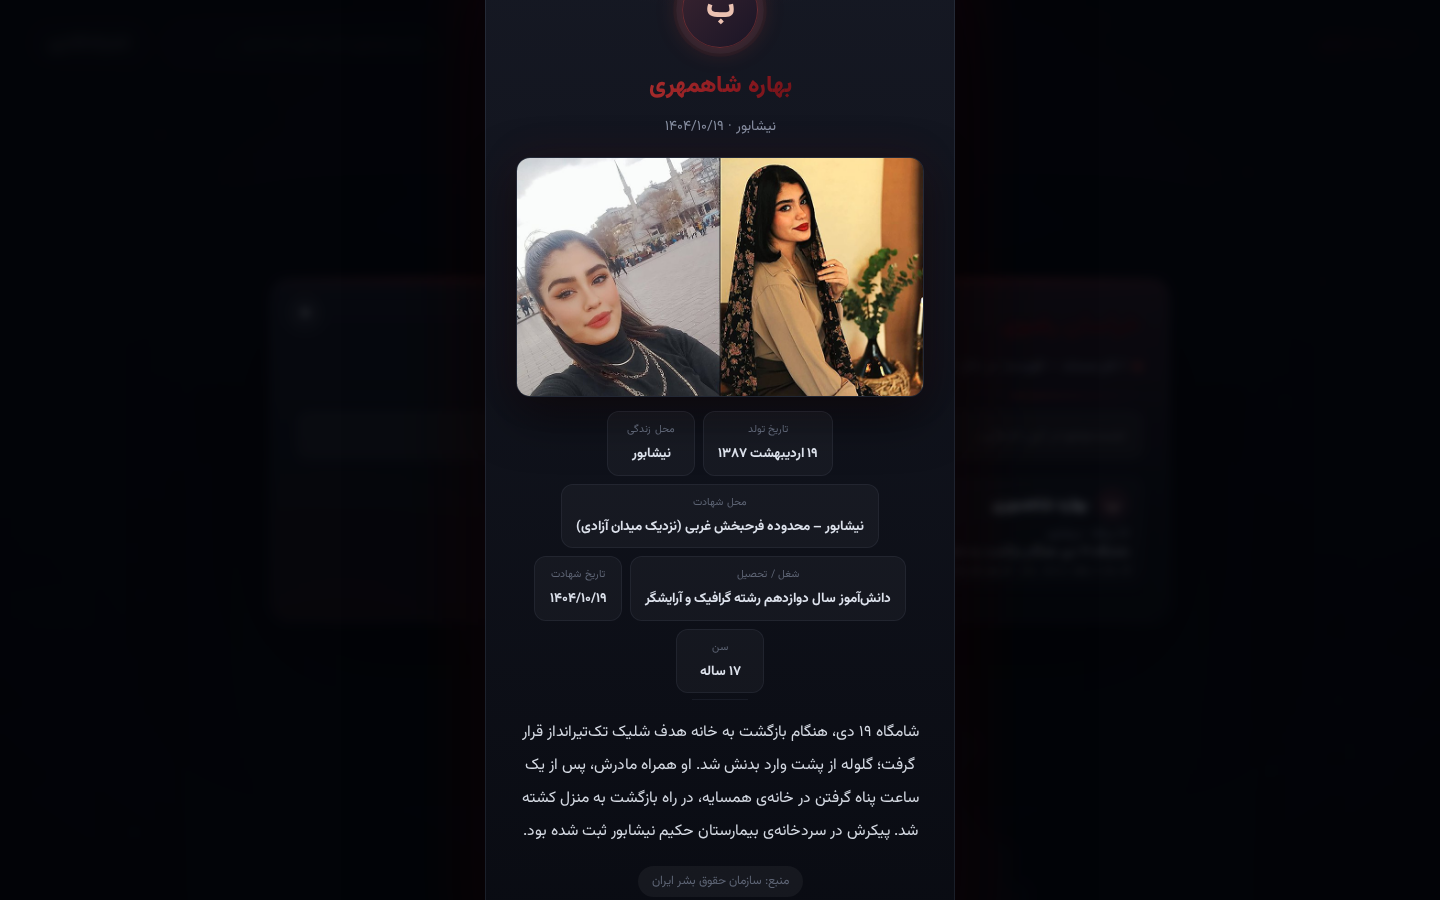
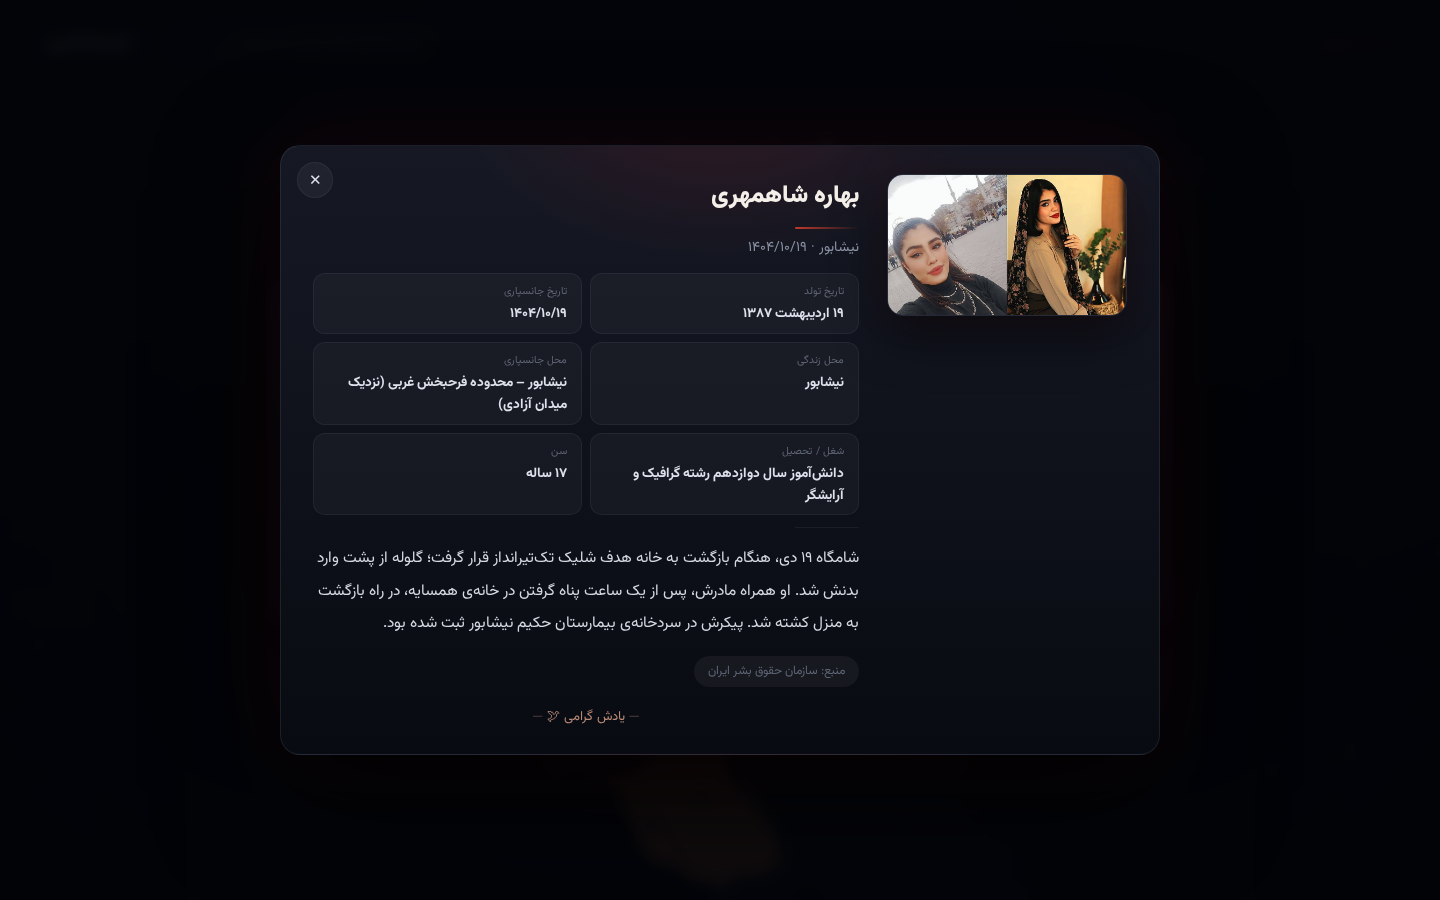
بازطراحی پاپآپ فرد به چیدمان افقی عریض و کوتاه
- اسم استان در پنجره به سفیدِ ملایم تغییر کرد (حفظ بوردر و نوار سرخ)
- آواتار کارتها حالا عکس کوچک فرد است (در نبود عکس، حرف اول)
- پنجرهی فرد: چیدمان افقی — عکس در ستون کناری، اطلاعات در بدنه
  (عرض ~۸۸۰px، ارتفاع کوتاهتر) با جدول دوستونهی اطلاعات
- فیلدها: عکس، تاریخ تولد و جانسپاری، محل زندگی و جانسپاری، شغل، سن،
  توضیحات + ویدیو/صدا
- در موبایل به حالت عمودی برمیگردد

diff --git a/css/style.css b/css/style.css
@@ -248,11 +248,18 @@ body {
 }
 .v-top { display: flex; align-items: center; gap: 9px; width: 100%; min-width: 0; }
 .v-avatar {
-  flex: 0 0 32px; width: 32px; height: 32px; border-radius: 50%;
+  flex: 0 0 36px; width: 36px; height: 36px; border-radius: 50%;
   display: flex; align-items: center; justify-content: center;
-  background: linear-gradient(135deg, #2a3350, #1b2233); color: var(--gold-soft);
-  font-weight: 800; font-size: .95rem; border: 1px solid rgba(180,200,230,.22);
+  background: linear-gradient(135deg, #38202a, #1c1726);
+  color: #e8bfae;
+  font-weight: 800; font-size: .95rem;
+  border: 1px solid rgba(208, 73, 63, .28);
+  overflow: hidden;
 }
+.v-avatar img {
+  width: 100%; height: 100%; object-fit: cover; border-radius: 50%; display: block;
+}
+.v-cell:hover .v-avatar { box-shadow: 0 0 14px rgba(208, 73, 63, .4); }
 .v-name { font-weight: 800; font-size: .98rem; white-space: nowrap; overflow: hidden; text-overflow: ellipsis; }
 .v-meta { color: var(--muted); font-size: .78rem; width: 100%; white-space: nowrap; overflow: hidden; text-overflow: ellipsis; }
 .v-note {
@@ -266,15 +273,28 @@ body {
 #detail { z-index: 60; }
 .detail-dialog {
   position: relative; z-index: 1;
-  width: min(470px, 94vw);
+  width: min(880px, 94vw);
+  max-height: min(86vh, 780px);
+  overflow-y: auto;
   background: linear-gradient(180deg, rgba(19,23,34,.99), rgba(10,12,19,.99));
   border: 1px solid var(--line); border-radius: 20px;
-  padding: 36px 30px 26px; text-align: center;
+  padding: 28px 32px 24px; text-align: right;
   box-shadow: 0 40px 120px rgba(0,0,0,.75);
   transform: translateY(16px) scale(.985);
   transition: transform .32s cubic-bezier(.2,.8,.2,1);
 }
 #detail.open .detail-dialog { transform: none; }
+
+/* چیدمان افقی: عکس در ستون کناری، اطلاعات در بدنه */
+.detail-layout { display: flex; gap: 28px; }
+.detail-side { flex: 0 0 240px; display: flex; flex-direction: column; gap: 12px; align-items: center; }
+.detail-main { flex: 1; min-width: 0; }
+.detail-photo { width: 100%; }
+.detail-photo-img {
+  width: 100%; max-height: 320px; object-fit: cover; border-radius: 16px;
+  border: 1px solid rgba(150,170,205,.14); display: block;
+  box-shadow: 0 18px 50px rgba(0,0,0,.55), 0 0 40px rgba(150, 26, 32, .12);
+}
 .detail-avatar {
   width: 76px; height: 76px; border-radius: 50%; margin: 4px auto 16px;
   display: flex; align-items: center; justify-content: center;
@@ -283,12 +303,12 @@ body {
   border: 1px solid rgba(180,200,230,.25);
   box-shadow: 0 0 0 6px rgba(180,200,230,.05);
 }
-.detail-name { font-size: 1.45rem; font-weight: 900; margin: 0 0 6px; }
-.detail-meta { color: var(--muted); font-size: .88rem; margin-bottom: 16px; }
-.detail-divider { width: 56px; height: 1px; background: var(--line); margin: 0 auto 16px; }
-.detail-note { color: #d3d8e1; line-height: 2.1; font-size: .98rem; margin: 0 0 18px; }
+.detail-name { font-size: 1.5rem; font-weight: 900; margin: 0 0 6px; }
+.detail-meta { color: var(--muted); font-size: .88rem; margin-bottom: 12px; }
+.detail-divider { width: 64px; height: 1px; background: var(--line); margin: 4px 0 14px; }
+.detail-note { color: #d3d8e1; line-height: 2.1; font-size: .97rem; margin: 0 0 16px; }
 .detail-src { display: inline-block; font-size: .76rem; color: var(--faint); background: rgba(255,255,255,.05); border-radius: 999px; padding: 4px 14px; }
-.detail-tribute { margin: 20px 0 0; color: var(--gold); font-size: .82rem; letter-spacing: .3px; }
+.detail-tribute { margin: 18px 0 0; color: #b98b77; font-size: .82rem; letter-spacing: .3px; text-align: center; }
 
 /* ============ رسانه در یادنامه (عکس / ویدیو / صدا) ============ */
 .detail-media { margin: 2px 0 14px; display: flex; flex-direction: column; align-items: center; gap: 10px; }
@@ -326,6 +346,11 @@ body {
   .modal-head { padding: 20px 18px 12px; }
   .modal-search { padding: 12px 18px 4px; }
   .modal-list { padding: 12px 18px 20px; }
+  .detail-dialog { padding: 22px 18px 20px; }
+  .detail-layout { flex-direction: column; gap: 16px; }
+  .detail-side { flex: none; width: 100%; }
+  .detail-photo-img { max-height: 260px; }
+  .detail-info { grid-template-columns: repeat(2, minmax(0, 1fr)); }
 }
 @media (prefers-reduced-motion: reduce) {
   * { animation: none !important; transition: none !important; }
@@ -354,8 +379,8 @@ body {
   border-radius: 2px;
 }
 .modal-province {
-  background: linear-gradient(115deg, #d0493f 0%, #8a181f 55%, #3c080c 100%);
-  -webkit-background-clip: text; background-clip: text; color: transparent;
+  color: #f2ede3;
+  text-shadow: 0 1px 12px rgba(255,255,255,.08);
 }
 .modal-count { display: inline-flex; align-items: center; gap: 8px; }
 .modal-count::before {
@@ -410,23 +435,25 @@ body {
   0%,100% { box-shadow: 0 0 0 0 rgba(208, 73, 63, .26), 0 0 0 6px rgba(180,200,230,.05); }
   50% { box-shadow: 0 0 0 9px rgba(208, 73, 63, .05), 0 0 26px rgba(208, 73, 63, .32), 0 0 0 6px rgba(180,200,230,.05); }
 }
-.detail-name {
-  background: linear-gradient(115deg, #d0493f 0%, #8a181f 55%, #3c080c 100%);
-  -webkit-background-clip: text; background-clip: text; color: transparent;
+.detail-name { color: #f4efe8; }
+.detail-name::after {
+  content: ""; display: block; width: 64px; height: 2px; margin-top: 7px;
+  background: linear-gradient(90deg, #c0392b, rgba(192,57,43,0));
+  border-radius: 2px;
 }
 
-/* جدول اطلاعات (تولد، محل زندگی، محل شهادت، شغل…) */
-.detail-info { display: flex; flex-wrap: wrap; justify-content: center; gap: 8px; margin: 0 0 6px; }
+/* جدول اطلاعات (تولد، جانسپاری، محل زندگی و جانسپاری، شغل، سن…) */
+.detail-info { display: grid; grid-template-columns: repeat(2, minmax(0, 1fr)); gap: 8px; margin: 0 0 12px; }
 .detail-info:empty { display: none; }
 .info-chip {
-  display: flex; flex-direction: column; align-items: center; gap: 1px;
+  display: flex; flex-direction: column; gap: 1px; text-align: right;
   background: rgba(255,255,255,.035); border: 1px solid var(--line); border-radius: 12px;
-  padding: 8px 14px; min-width: 88px;
+  padding: 8px 14px; min-width: 0;
   transition: border-color .2s, background .2s;
 }
 .info-chip:hover { border-color: rgba(208, 73, 63, .35); background: rgba(208, 73, 63, .06); }
 .info-k { font-size: .66rem; color: var(--faint); letter-spacing: .3px; }
-.info-v { font-size: .84rem; font-weight: 700; color: var(--ink); }
+.info-v { font-size: .85rem; font-weight: 700; color: var(--ink); line-height: 1.6; }
 
 /* قاب رسانه */
 .media-photo {

diff --git a/js/app.js b/js/app.js
@@ -283,7 +283,9 @@
         cell.style.setProperty('--i', idx);
         cell.innerHTML =
           '<span class="v-top">' +
-            '<span class="v-avatar">' + esc((v.name || '؟').trim().charAt(0)) + '</span>' +
+            '<span class="v-avatar">' + (v.photo
+              ? '<img src="' + esc(v.photo) + '" alt="' + esc(v.name) + '" loading="lazy">'
+              : esc((v.name || '؟').trim().charAt(0))) + '</span>' +
             '<span class="v-name">' + esc(v.name) + '</span>' +
           '</span>' +
           '<span class="v-meta">' + esc([v.age ? toFa(v.age) + ' ساله' : '', v.city].filter(Boolean).join(' · ')) + '</span>' +
@@ -339,7 +341,15 @@
   function openDetail(id) {
     const v = victims.find((x) => x.id === id);
     if (!v) return;
-    $('#detailAvatar').textContent = (v.name || '؟').trim().charAt(0);
+
+    /* عکس در ستون کناری؛ اگر نبود، دایرهی حرف اول */
+    const photoEl = $('#detailPhoto');
+    if (v.photo) {
+      photoEl.innerHTML = '<img class="detail-photo-img" src="' + esc(v.photo) + '" alt="' + esc(v.name) + '" loading="lazy">';
+    } else {
+      photoEl.innerHTML = '<div class="detail-avatar">' + esc((v.name || '؟').trim().charAt(0)) + '</div>';
+    }
+
     $('#detailName').textContent = v.name;
     $('#detailMeta').textContent = [
       v.city,
@@ -348,13 +358,13 @@
     $('#detailNote').textContent = v.note || 'جزئیات در حال تکمیل.';
     $('#detailSrc').textContent = 'منبع: ' + (v.source || 'نامشخص');
 
-    /* جدول اطلاعات: تولد، محل زندگی، محل شهادت، شغل، تاریخ، سن */
+    /* جدول اطلاعات */
     const infoRows = [];
     if (v.born) infoRows.push(['تاریخ تولد', v.born]);
+    if (v.dateFa) infoRows.push(['تاریخ جانسپاری', toFa(v.dateFa)]);
     if (v.lived) infoRows.push(['محل زندگی', v.lived]);
-    if (v.killedAt) infoRows.push(['محل شهادت', v.killedAt]);
+    if (v.killedAt) infoRows.push(['محل جانسپاری', v.killedAt]);
     if (v.occupation) infoRows.push(['شغل / تحصیل', v.occupation]);
-    if (v.dateFa) infoRows.push(['تاریخ شهادت', toFa(v.dateFa)]);
     if (v.age) infoRows.push(['سن', toFa(v.age) + ' ساله']);
     const infoEl = $('#detailInfo');
     infoEl.innerHTML = infoRows.map((r) =>
@@ -362,17 +372,11 @@
       '<span class="info-v">' + esc(r[1]) + '</span></span>'
     ).join('');
 
-    /* رسانههای اختیاری: ویدیو، عکس یا صدا */
+    /* رسانه: ویدیو و صدا */
     const media = $('#detailMedia');
     let m = '';
-    if (v.video) {
-      m += '<video class="media-video" controls preload="metadata" src="' + esc(v.video) + '"></video>';
-    } else if (v.photo) {
-      m += '<img class="media-photo" src="' + esc(v.photo) + '" alt="' + esc(v.name) + '">';
-    }
-    if (v.audio) {
-      m += '<audio class="media-audio" controls preload="none" src="' + esc(v.audio) + '"></audio>';
-    }
+    if (v.video) m += '<video class="media-video" controls preload="metadata" src="' + esc(v.video) + '"></video>';
+    if (v.audio) m += '<audio class="media-audio" controls preload="none" src="' + esc(v.audio) + '"></audio>';
     if (m) { media.innerHTML = m; media.classList.remove('hidden'); }
     else { media.innerHTML = ''; media.classList.add('hidden'); }
 

diff --git a/index.html b/index.html
@@ -72,15 +72,21 @@
   <div class="modal-backdrop" data-close="detail"></div>
   <div class="detail-dialog" role="dialog" aria-modal="true">
     <button class="modal-close" data-close="detail" aria-label="بستن">✕</button>
-    <div class="detail-avatar" id="detailAvatar"></div>
-    <h3 class="detail-name" id="detailName"></h3>
-    <div class="detail-meta" id="detailMeta"></div>
-    <div id="detailMedia" class="detail-media hidden"></div>
-    <div class="detail-info" id="detailInfo"></div>
-    <div class="detail-divider"></div>
-    <p class="detail-note" id="detailNote"></p>
-    <div class="detail-src" id="detailSrc"></div>
-    <p class="detail-tribute">یادش گرامی 🕊</p>
+    <div class="detail-layout">
+      <aside class="detail-side">
+        <div class="detail-photo" id="detailPhoto"></div>
+        <div id="detailMedia" class="detail-media hidden"></div>
+      </aside>
+      <div class="detail-main">
+        <h3 class="detail-name" id="detailName"></h3>
+        <div class="detail-meta" id="detailMeta"></div>
+        <div class="detail-info" id="detailInfo"></div>
+        <div class="detail-divider"></div>
+        <p class="detail-note" id="detailNote"></p>
+        <div class="detail-src" id="detailSrc"></div>
+        <p class="detail-tribute">یادش گرامی 🕊</p>
+      </div>
+    </div>
   </div>
 </div>
 
